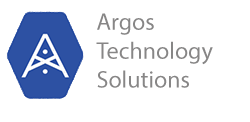
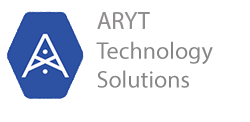
Mejoras
Mejoras

Changed region(s): [[0.392, 0.0984, 0.616, 0.2951]]

diff --git a/index.php b/index.php
@@ -37,7 +37,7 @@
 					<span class="icon-bar"></span>
 					<span class="icon-bar"></span>
 					</button>
-					<a class="navbar-brand page-scroll" href="#page-top"><img src="images/icon3.png" alt="Argos Technology Solutions"></a>
+					<a class="navbar-brand page-scroll" href="#page-top"><img src="images/icon3.png" alt="ARYT Technology Solutions"></a>
 				</div>
 				<!-- Collect the nav links, forms, and other content for toggling -->
 				<div class="collapse navbar-collapse" id="bs-example-navbar-collapse-1">
@@ -533,7 +533,7 @@
 					</div>
 					<div class="col-md-3">
 						<h3>Horarios de Atención</h3>
-						<p><i class="fa fa-clock-o"></i> <span class="day">Lunes a Viernes:</span><span>8am a 8pm</span></p>
+						<p><i class="fa fa-clock-o"></i> <span class="day">Lunes a Viernes: </span><span>8am a 8pm</span></p>
 						<p><i class="fa fa-clock-o"></i> <span class="day">Sabado:</span><span>9am a 2pm</span></p>
 						<p><i class="fa fa-clock-o"></i> <span class="day">Domingo:</span><span>Cerrado</span></p>
 					</div>
